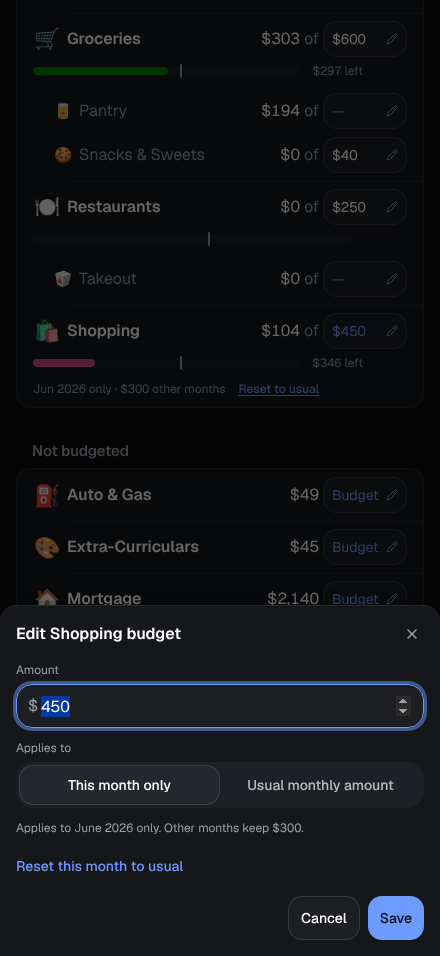
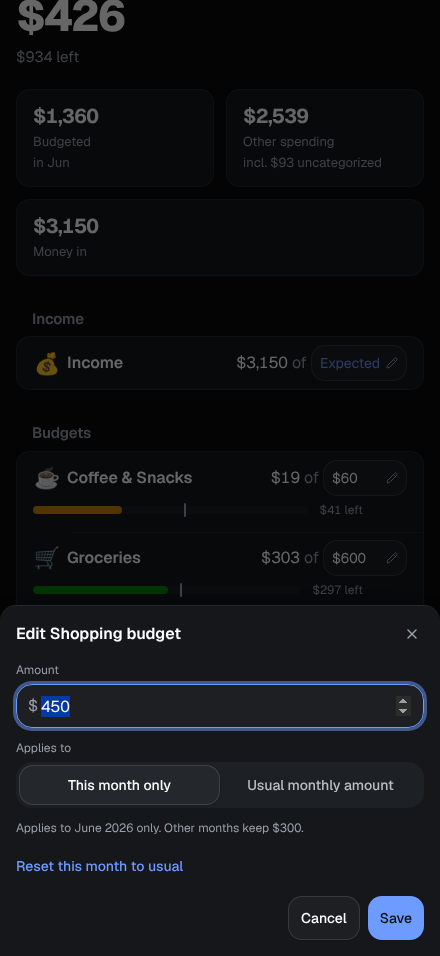
fix: make verify's clicks wait for a closing dialog, so budget-edit's phone images stop moving (#550)

diff --git a/frontend/verify/flows/README.md b/frontend/verify/flows/README.md
@@ -21,7 +21,7 @@ Each `*.json` file here is a flow that `make verify` runs besides visiting the p
 - `"signed_in": true` runs the flow signed in: against a demo server with sign-in on (runway/verify.py's `serve`), with a session made for it and a virtual platform authenticator (Chrome's DevTools WebAuthn) standing in for Face ID or Touch ID. The app lock's flow (`app-lock.json`) needs it. Each viewport is a new browser on the same session, so a flow that changes something about the session puts it back at the end.
 - A step has one action, and an optional `timeout` in milliseconds (default 10000). Selectors are [Playwright selectors](https://playwright.dev/docs/other-locators) (CSS, `text=…`, `role=…`).
   - `{"goto": "#route"}` opens a route of the app (or a full URL).
-  - `{"click": selector}`, `{"fill": {"selector": …, "text": …}}`, `{"press": {"selector": …, "key": "Enter"}}`.
+  - `{"click": selector}`, `{"fill": {"selector": …, "text": …}}`, `{"press": {"selector": …, "key": "Enter"}}`. A click first waits for a dialog or sheet the step before closed to let go of the page: until it has, the click lands on the closing dialog, and Playwright's retries scroll the page a different way each time.
   - `{"scroll_to": selector}` scrolls it to the middle of the window (and, inside a table that scrolls sideways, to its left edge), so the screenshot after it shows it.
   - `{"wait_for": selector}` waits for it to appear; `{"expect_text": {"selector": …, "text": …}}` fails unless it contains the text.
     `expect_text` reads the text once the selector exists and does not wait for the text to arrive: for content a page loads after it renders (a `{#await}` block), `wait_for` a `text=…` selector first, or a slow runner reads the page before it is filled in.
